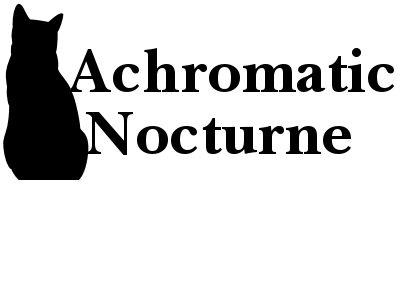
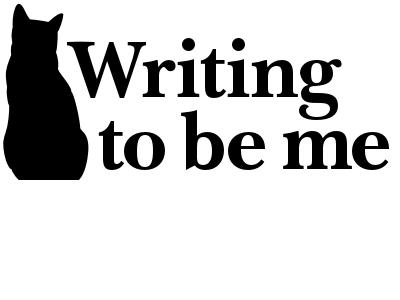
トップ画像
とりあえずタイトルきまった

Changed region(s): [[0.15, 0.12, 0.99, 0.57]]

diff --git a/css/main.css b/css/main.css
@@ -43,7 +43,7 @@ div#title
 	margin: 0 auto;
 	background-image: url("./title.png");
 	background-repeat: no-repeat;
-	background-position: 200px 30px;
+	background-position: 205px 30px;
 }
 
 div#menu
@@ -61,7 +61,7 @@ div#menu ul.tags
 	margin: 0 auto;
 	background-image: url("./title.png");
 	background-repeat: no-repeat;
-	background-position: 200px -180px;
+	background-position: 205px -180px;
 }
 
 div#main
